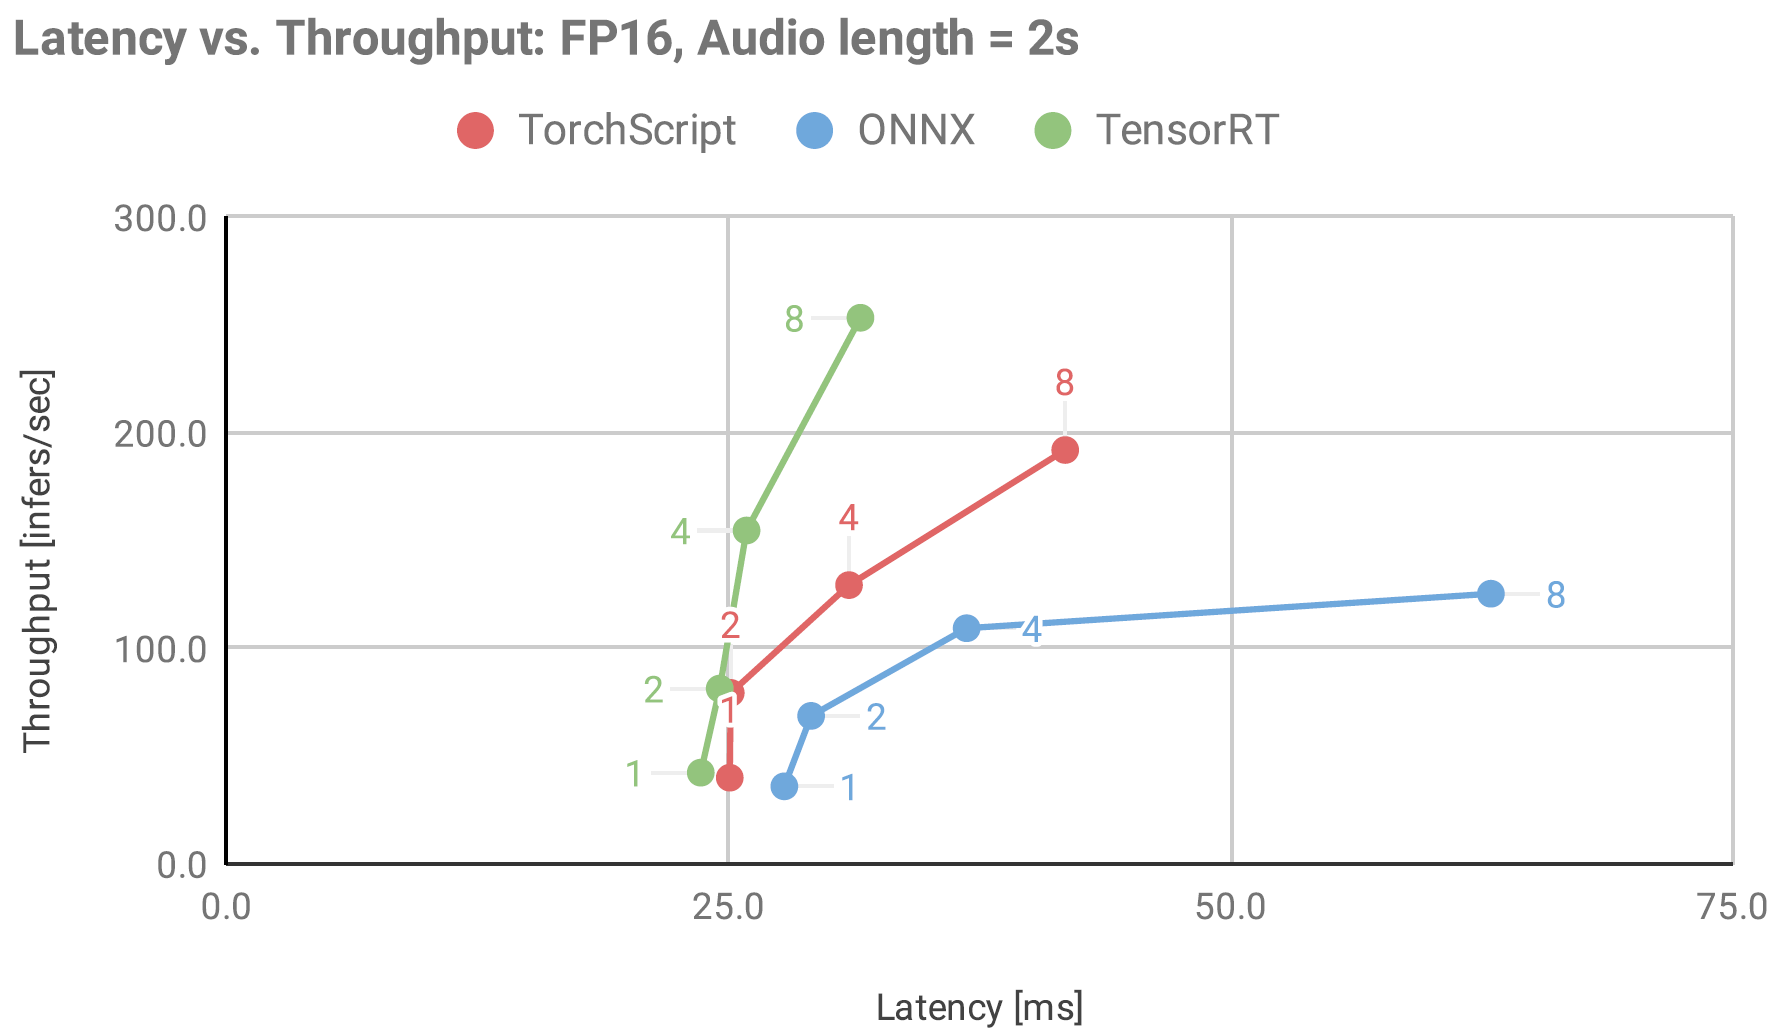
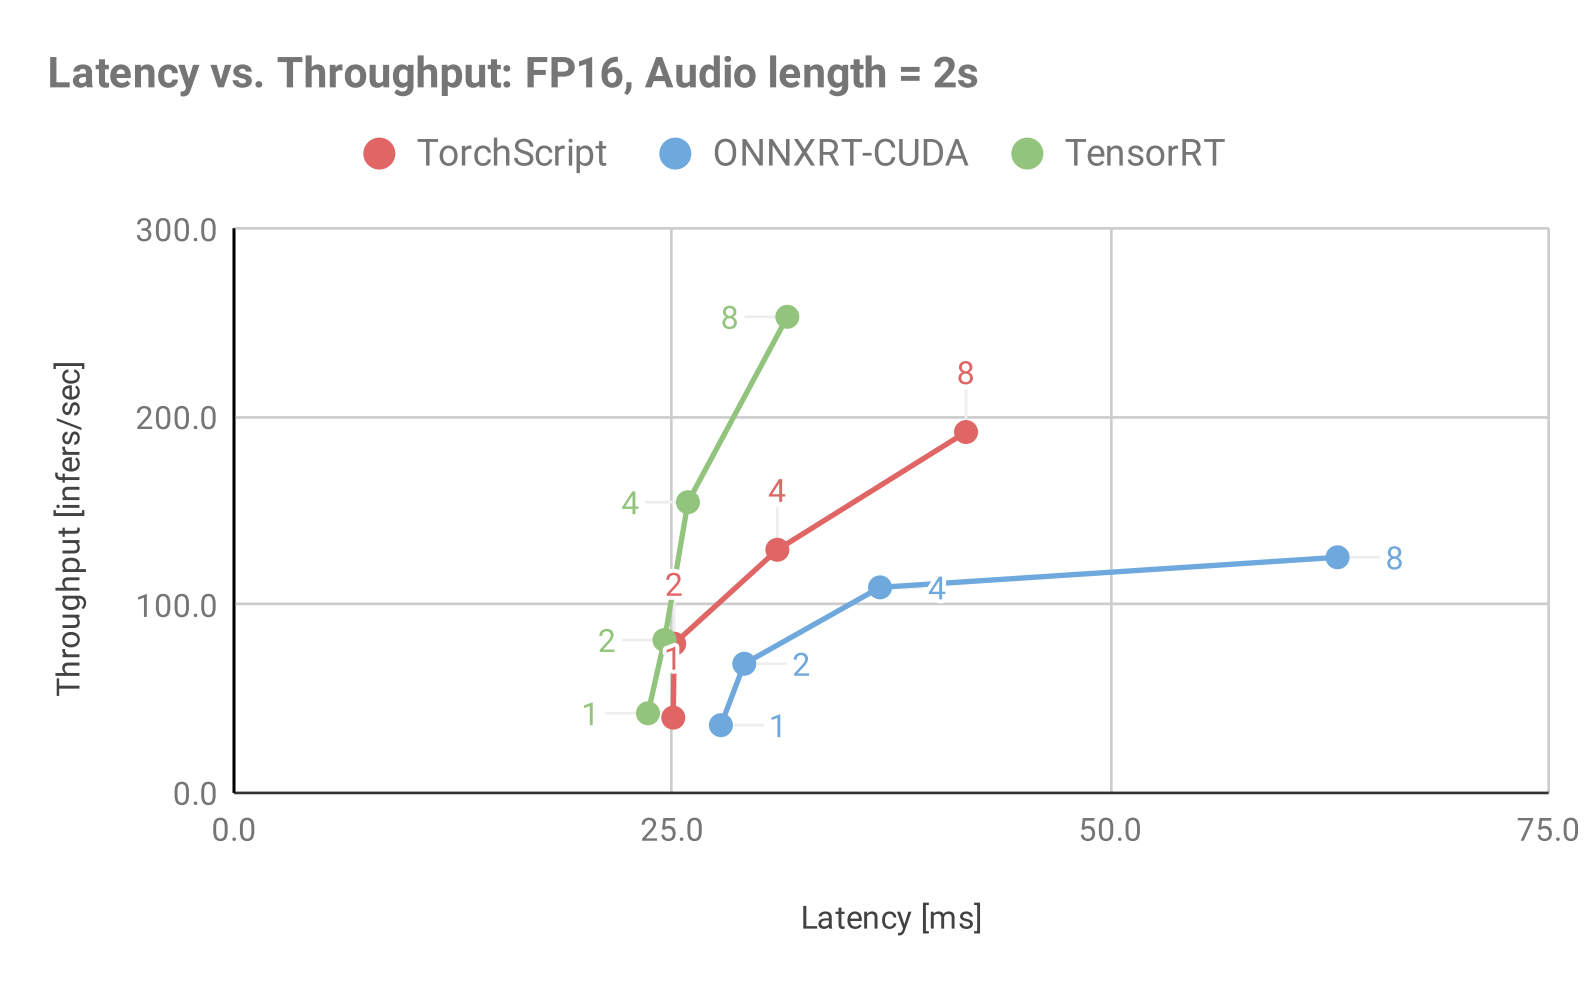
updated onnx runtime info

diff --git a/PyTorch/SpeechRecognition/Jasper/triton/README.md b/PyTorch/SpeechRecognition/Jasper/triton/README.md
@@ -13,11 +13,10 @@ This subfolder of the Jasper for PyTorch repository contains scripts for  deploy
 - [Performance](#performance)
      * [Inference Benchmarking in Triton Inference Server](#inference-benchmarking-in-triton-inference-server)
      * [Results](#results)
-       * [Performance Analysis for Triton Inference Server: NVIDIA T4
-](#performance-analysis-for-triton-inference-server-nvidia-t4)
+       * [Performance Analysis for Triton Inference Server: NVIDIA T4](#performance-analysis-for-triton-inference-server-nvidia-t4)
        * [Maximum batch size](#maximum-batch-size)
             * [Batching techniques: Static versus Dynamic Batching](#batching-techniques-static-versus-dynamic)
-            * [TensorRT, ONNX, and PyTorch JIT comparisons](#tensorrt-onnx-and-pytorch-jit-comparisons)
+            * [TensorRT, ONNXRT-CUDA, and PyTorch JIT comparisons](#tensorrt-onnxrt-cuda-and-pytorch-jit-comparisons)
 - [Release Notes](#release-notes)
 	* [Changelog](#change-log)
 	* [Known issues](#known-issues)
@@ -327,7 +326,7 @@ Figure 5: Triton pipeline - Latency & Throughput vs Concurrency using dynamic Ba
 ![](../images/tensorrt_16.7s.png)
 Figure 6: Triton pipeline - Latency & Throughput vs Concurrency using dynamic Batching at maximum server batch size = 8, max_queue_delay_microseconds = 5000, input audio length = 16.7 seconds, TensorRT backend.
 
-##### TensorRT, ONNX, and PyTorch JIT comparisons
+##### TensorRT, ONNXRT-CUDA, and PyTorch JIT comparisons
 
 The following tables show inference and latency comparisons across all 3 backends for mixed precision and static batching. The main observations are:
 Increasing the batch size leads to higher inference throughput and - latency up to a certain batch size, after which it slowly saturates.
@@ -337,7 +336,7 @@ The longer the audio length, the lower the throughput and the higher the latency
 
 The following table shows the throughput benchmark results for all 3 model backends in Triton Inference Server using static batching under optimal concurrency
 
-|Audio length in seconds|Batch Size|TensorRT (inf/s)|PyTorch (inf/s)|ONNX (inf/s)|TensorRT/PyTorch Speedup|TensorRT/Onnx Speedup|
+|Audio length in seconds|Batch Size|TensorRT (inf/s)|PyTorch (inf/s)|ONNXRT-CUDA (inf/s)|TensorRT/PyTorch Speedup|TensorRT/ONNXRT-CUDA Speedup|
 |---    |---    |---    |---    |---    |---    |---    |
 |  2.0| 1|  49.67|  55.67|  41.67| 0.89| 1.19|
 |  2.0| 2|  98.67|  96.00|  77.33| 1.03| 1.28|
@@ -356,7 +355,7 @@ The following table shows the throughput benchmark results for all 3 model backe
 
 The following table shows the throughput benchmark results for all 3 model backends in Triton Inference Server using static batching and a single concurrent request.
 
-|Audio length in seconds|Batch Size|TensorRT (ms)|PyTorch (ms)|ONNX (ms)|TensorRT/PyTorch Speedup|TensorRT/Onnx Speedup|
+|Audio length in seconds|Batch Size|TensorRT (ms)|PyTorch (ms)|ONNXRT-CUDA (ms)|TensorRT/PyTorch Speedup|TensorRT/ONNXRT-CUDA Speedup|
 |---    |---    |---    |---    |---    |---    |---    |
 |  2.0| 1|  23.61|  25.06| 31.84| 1.06| 1.35|
 |  2.0| 2|  24.56|  25.11| 37.54| 1.02| 1.53|

diff --git a/PyTorch/SpeechRecognition/Jasper/README.md b/PyTorch/SpeechRecognition/Jasper/README.md
@@ -808,6 +808,9 @@ To achieve these same results, follow the [Quick Start Guide](#quick-start-guide
 ## Release notes
 
 ### Changelog
+March 2021
+* Updated ONNX runtime information
+
 February 2021
 * Added DALI data-processing pipeline for on-the-fly data processing and augmentation on CPU or GPU
 * Revised training recipe: ~10% relative improvement in Word Error Rate (WER)
